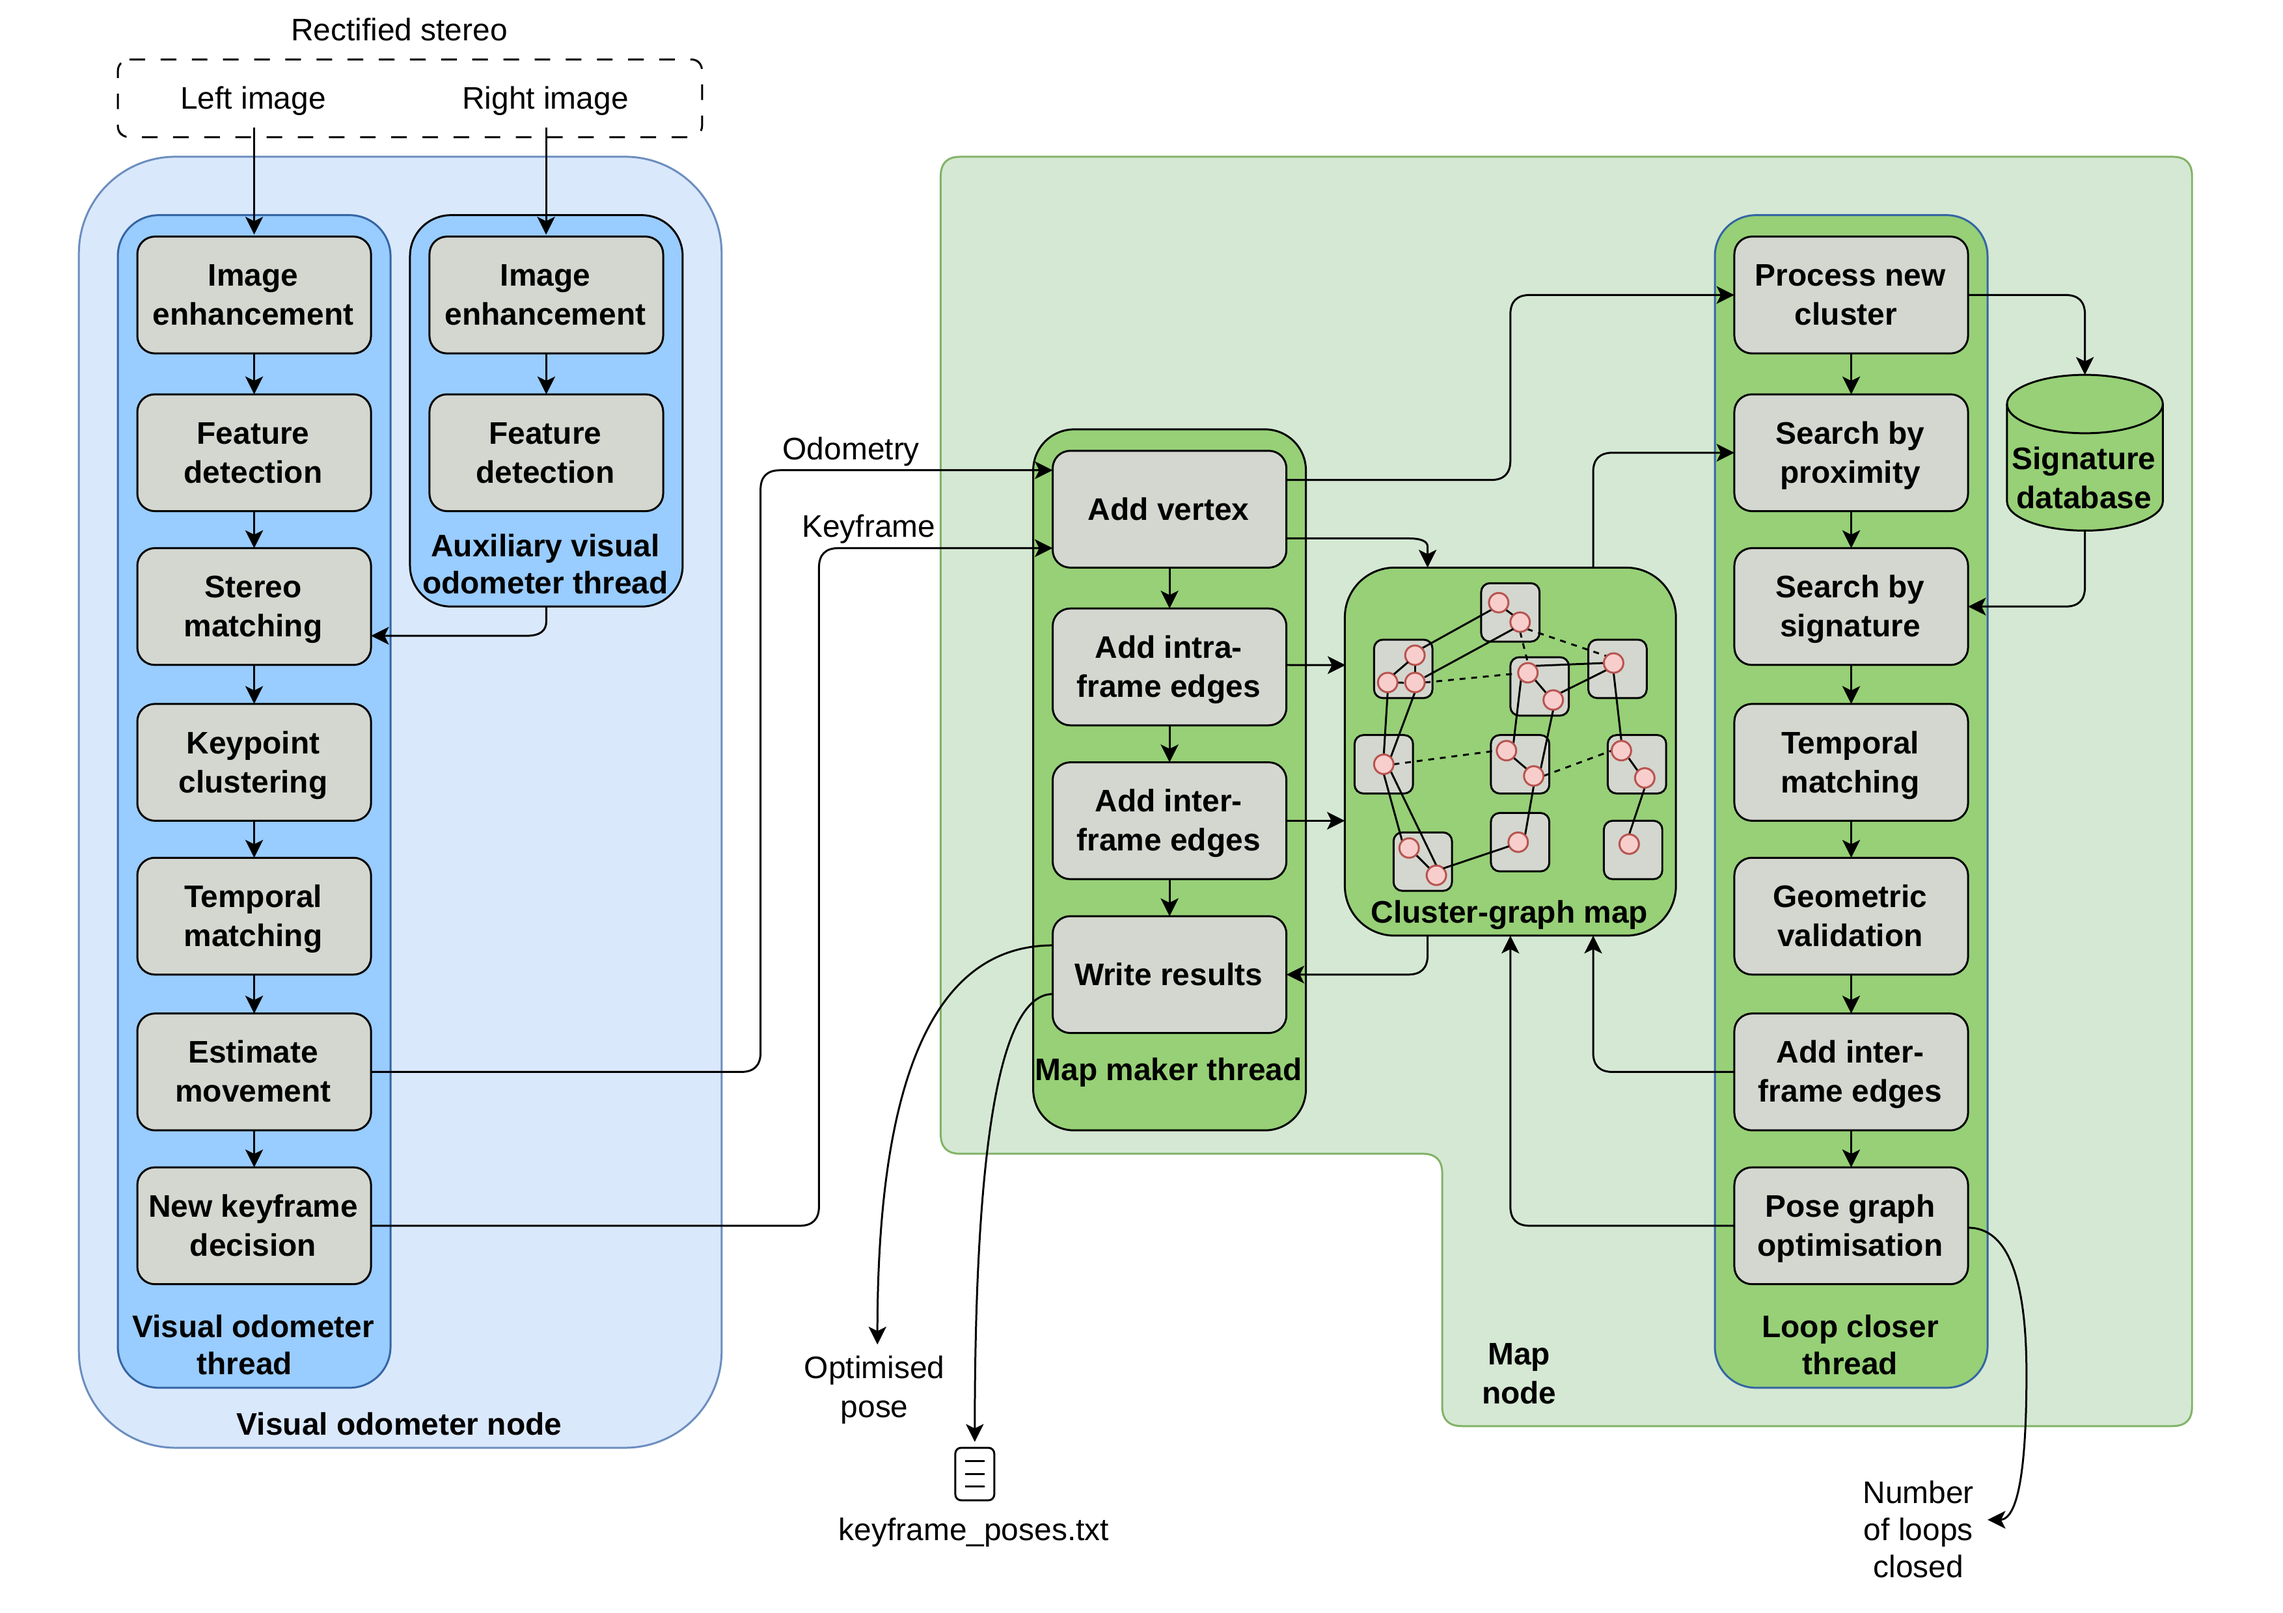
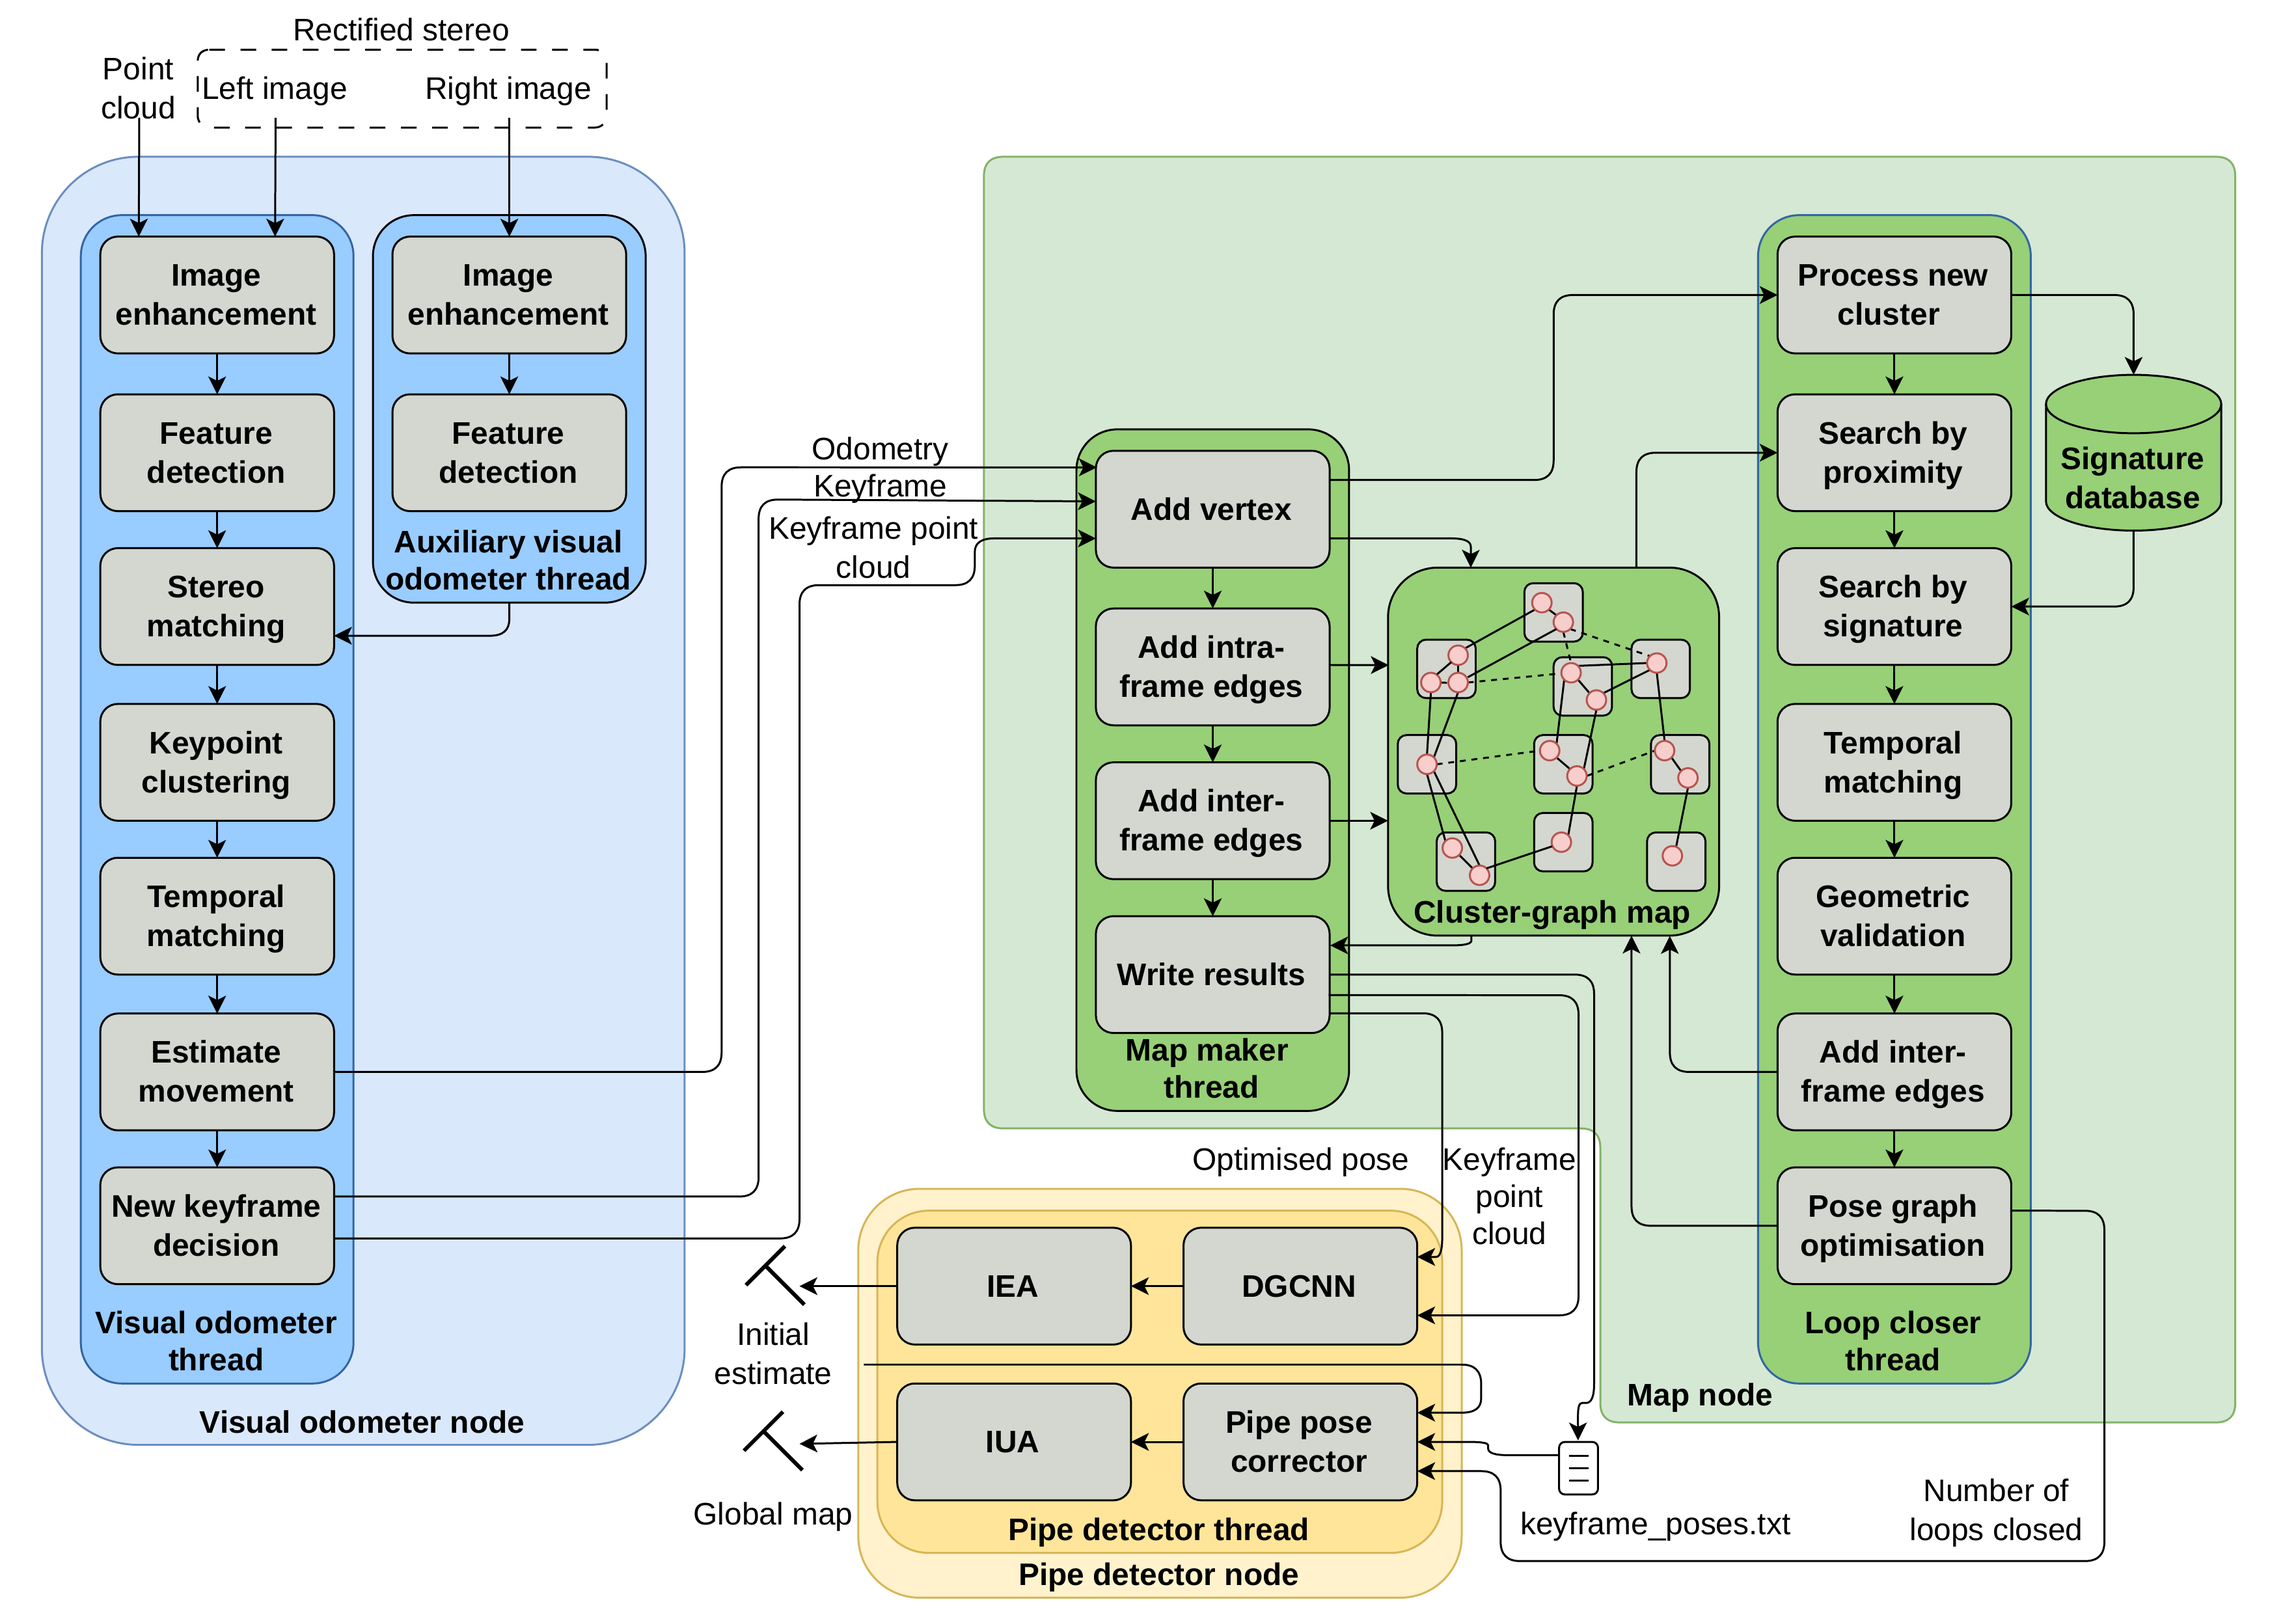
docs(README): Update branch README.md

Changed region(s): [[0.0, 0.0, 0.9943, 0.9939]]

diff --git a/README.md b/README.md
@@ -26,8 +26,9 @@
 </p>
 
 <div align="center">
-  <a href=""><img src="https://img.shields.io/badge/Read-Paper-green"></a> &nbsp;&nbsp;&nbsp;&nbsp;&nbsp;
-  <a href=""><img src="https://img.shields.io/badge/Dataset-Zenodo-blue"></a> &nbsp;&nbsp;&nbsp;&nbsp;&nbsp;
+  <a href="#"><img src="https://img.shields.io/badge/Read-Paper-green"></a> &nbsp;&nbsp;&nbsp;&nbsp;&nbsp;
+  <a href="#"><img src="https://img.shields.io/badge/Dataset-Zenodo-blue"></a> &nbsp;&nbsp;&nbsp;&nbsp;&nbsp;
+  <a href="#"><img src="https://img.shields.io/badge/Code-Pipe_detector-yellow"></a> &nbsp;&nbsp;&nbsp;&nbsp;&nbsp;
   <a href="https://github.com/bomiquel/slamon/blob/noetic/LICENSE"><img src="https://img.shields.io/badge/License-BSD_4--Clause-orange"></a> &nbsp;&nbsp;&nbsp;&nbsp;&nbsp;
   <a href="https://www.youtube.com/watch?v=G6NhKJ459Rw&t=1s"><img src="https://img.shields.io/badge/YouTube-Video-red"></a> &nbsp;&nbsp;&nbsp;&nbsp;&nbsp;
   <br>
@@ -79,6 +80,7 @@ slamon/
 ├── CMakeLists.txt   # CMake build configuration
 ├── cmake-modules/   # Custom CMake modules for finding external libraries (e.g., G2O)
 ├── config/          # YAML configuration files for SLAMON parameters
+├── envs/            # Conda environment file for the pipe detector (pipes2.yml)
 ├── include/         # C++ header files (.hpp)
 ├── launch/          # ROS 1 launch files
 ├── LICENSE          # BSD 4-Clause License
@@ -86,7 +88,7 @@ slamon/
 ├── NOTICE           # Copyright and attribution notices for third-party/legacy code
 ├── package.xml      # ROS 1 package metadata and dependencies
 ├── README.md        # Project documentation
-├── scripts/         # Bash scripts for profiling
+├── scripts/         # Bash scripts for profiling and launch pipe detector
 ├── src/             # C++ source files (.cpp)
 └── srv/             # Custom ROS 1 services definitions
 ```
@@ -103,6 +105,9 @@ To run SLAMON, you will need a system running **Ubuntu 20.04** with the followin
 * SuiteSparse
 * cmake_modules (ROS)
 
+To run the pipe detector (dgcnn), you will need a system running **Ubuntu 20.04** with the following libraries:
+* Miniconda
+* Pipes2 environment
 
 ### Installation 
 
@@ -194,6 +199,42 @@ sudo make install # Optional
 sudo ldconfig # Only needed if sudo make install
 ```
 
+**MINICONDA:**
+```bash
+# 0. Keep ubuntu or debian up to date
+sudo apt -y update
+sudo apt -y upgrade
+
+# 1. Download the Miniconda installation script.
+cd ~/Downloads
+wget https://repo.anaconda.com/miniconda/Miniconda3-latest-Linux-x86_64.sh
+
+# 2. Run installation script.
+bash Miniconda3-latest-Linux-x86_64.sh -b -p $HOME/miniconda3
+
+# 3. Initialise Conda permanently (all new terminals).
+"$HOME/miniconda3/bin/conda" init bash
+
+# 4. Initialise Conda for the current (non-interactive) shell.
+eval "$($HOME/miniconda3/bin/conda shell.bash hook)"
+
+# 5. Accept Terms of Service for default channels
+conda tos accept --override-channels --channel https://repo.anaconda.com/pkgs/main
+conda tos accept --override-channels --channel https://repo.anaconda.com/pkgs/r
+
+# 6. Configure conda.
+conda config --remove-key auto_activate_base 2>/dev/null || true
+conda config --remove-key auto_activate 2>/dev/null || true
+conda config --set auto_activate false
+
+# 7. Update conda.
+conda update -n base -c defaults conda -y
+
+# 8. Remove installator
+cd ~/Downloads
+rm -rf Miniconda3-latest-Linux-x86_64.sh
+```
+
 **G2O, SUITESPARSE & CMAKE-MODULES:**
 ```bash
 sudo apt install ros-noetic-libg2o ros-noetic-cmake-modules libsuitesparse-dev
@@ -212,9 +253,21 @@ source devel/setup.bash
 #### 2. Clone and compile SLAMON
 ```bash
 cd ~/catkin_ws/src
-git clone -b noetic https://github.com/bomiquel/slamon.git # Clone the pure V-SLAM branch (use -b noetic-pipes for the detector integration branch)
+git clone -b noetic-pipes https://github.com/bomiquel/slamon.git # Clone the V-SLAM with the pipe detector integration branch (use -b noetic for the pure V-SLAM branch)
 catkin build slamon
 source ~/catkin_ws/devel/setup.bash
+```
+
+#### 3. Clone pipe detector
+```bash
+cd ~/catkin_ws/src
+git clone -b ros_uji https://github.com/mmabadal/dgcnn.git 
+```
+
+#### 4. Setup conda environment
+```bash
+cd ~/catkin_ws/src/slamon/envs # or cd ~/catkin_ws/src/dgcnn/envs
+conda create --file pipes2.yml
 ```
 
 ## Datasets
@@ -257,7 +310,7 @@ It is recommended not to modify the remaining parameters and constants.
 
 ### Usage
 
-The provided launch files in `launch/` are self-contained and handle the entire execution pipeline, including playing the ROS bagfiles, setting `frame_id`s, publishing static `tf` transforms between the robot and the stereo camera, defining initial poses, loading the parameter files from `config/`, and launching the SLAMON ROS nodes.
+The provided launch files in `launch/` are self-contained and handle the entire execution pipeline, including playing the ROS bagfiles, setting `frame_id`s, publishing static `tf` transforms between the robot and the stereo camera, defining initial poses, loading the parameter files from `config/`, launching the SLAMON ROS nodes, setting up the `pipes2` conda environment, and launching the Python 3 pipe detector script.
 
 Simply update the bagfile path inside your desired launch file (based on the templates in `launch/`) and run:
 
@@ -278,6 +331,14 @@ roslaunch slamon launch_file_name.launch
 
 * `keyframe` (ROS topic) - Selected keyframe data published by the VO node.
 * `odom` (ROS topic) - Visual odometry estimate published by the VO node.
+* `points2` (ROS topic) - Point cloud from the selected keyframe.
+
+#### Pipe detector node
+
+* `keycloud` (ROS topic) - Point cloud from the selected keyframe.
+* `loop_closure_num` (ROS topic) - Total number of accepted loop closures.
+* `robot_map` (ROS topic) - Map-corrected 6-DoF robot pose.
+* `keyframes_poses` (Text file) - List of stamped 6-DoF keyframe poses.
 
 ### Outputs
 
@@ -299,6 +360,7 @@ roslaunch slamon launch_file_name.launch
 #### Map node — Mapmaker thread
 
 * `camera_map` (ROS topic) - Map-corrected 6-DoF camera pose.
+* `keycloud` (ROS topic) - Pointcloud from the selected keyframe.
 * `keyframe_num` (ROS topic) - Total number of keyframes currently in the map.
 * `keypoints_clustering_img` (ROS topic) - Image displaying the spatially clustered keypoints of a keyframe *(debugging mode only)*.
 * `mapmaker_performance` (ROS topic) - Per-iteration mapmaker execution times.
@@ -318,6 +380,16 @@ roslaunch slamon launch_file_name.launch
 * `loop_closure_num` (ROS topic) - Total number of accepted loop closures.
 * `haloc` (Temporary folder) - Working directory where the algorithm stores each cluster data 
 * `loop_closures` (Image folder) - Directory where the algorithm saves images with visual representations of each accepted loop closure *(debugging mode only)*.
+
+#### Pipe detector node
+
+* `points2_base` (ROS topic) - Raw point cloud referenced to the camera frame.
+* `points2_seg` (ROS topic) - Segmented point cloud referenced to the camera frame.
+* `points2_inst` (ROS topic) - Instance point cloud referenced to the camera frame.
+* `points2_info` (ROS topic) - Info point cloud referenced to the camera frame.
+* `points2_info_world` (ROS topic) - Info point cloud referenced to the world frame (computed using visual odometry/local estimates).
+* `points2_info_slam_map` (ROS topic) - Info point cloud referenced to the world frame (computed using global optimized SLAM map information).
+* `pipes` (Point cloud folder) - Directory where the algorithm saves the output point clouds containing the detected pipes/valves (`.obj`, `.npy`, `.ply`). Files ending in `_info_local.ply` store `points2_info_world` data, while files ending in `_global.ply` store `points2_info_slam_map` data.
 
 ## Citation
 
